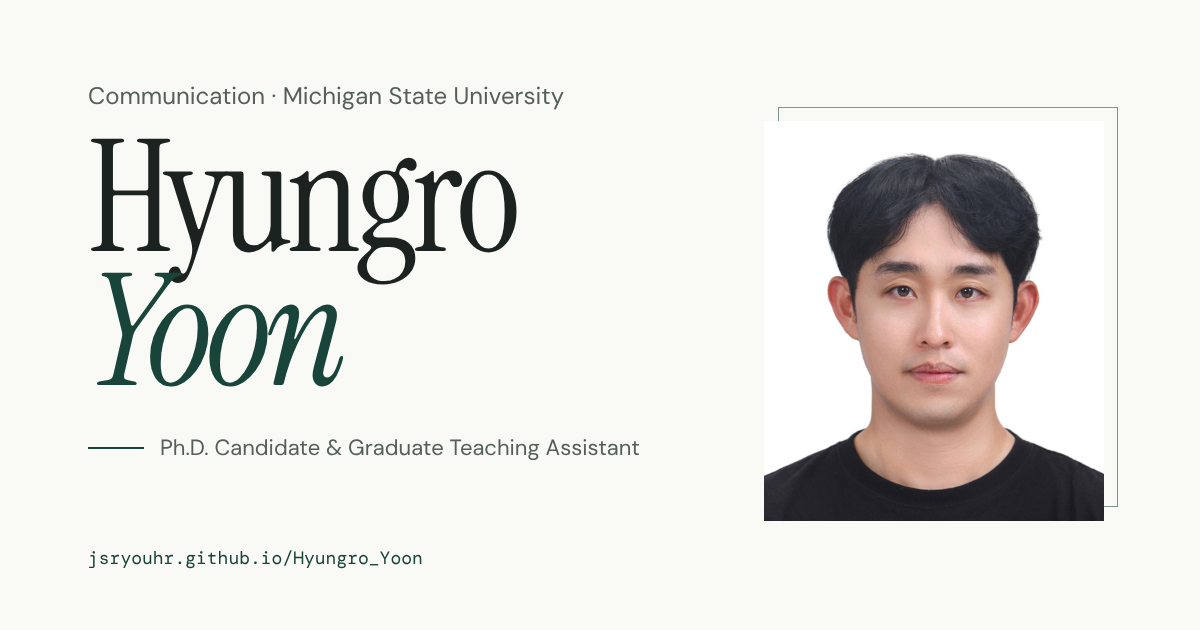
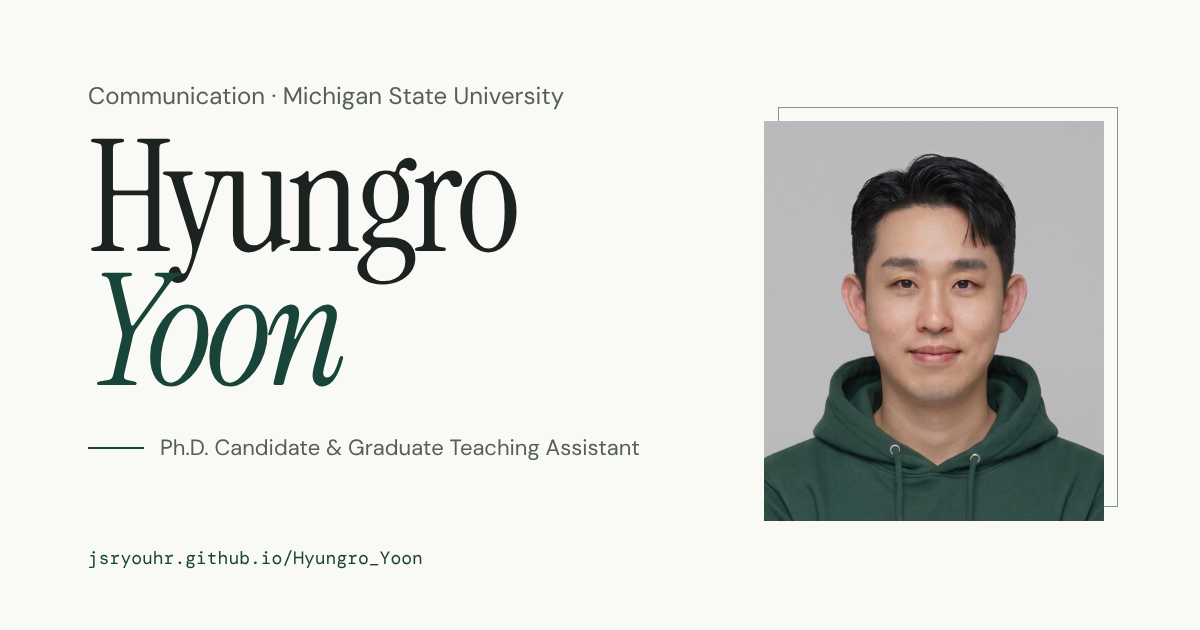
Replace profile photo and regenerate og-image with it
Claude-Session: https://claude.ai/code/session_01DkjhQkEKWE4T2VK9X79p76

Changed region(s): [[0.6167, 0.181, 0.925, 0.8444]]

diff --git a/artifacts/hyungro-yoon/src/App.tsx b/artifacts/hyungro-yoon/src/App.tsx
@@ -100,7 +100,7 @@ function App() {
           <div className="relative">
             <div className="absolute -right-3 -top-3 h-full w-full border border-primary/55"/>
             <div className="relative aspect-square overflow-hidden bg-muted">
-              <img src={portraitUrl} alt="Portrait of Hyungro Yoon" width="600" height="600" className="h-full w-full object-cover object-center grayscale-[12%]"/>
+              <img src={portraitUrl} alt="Portrait of Hyungro Yoon" width="900" height="900" className="h-full w-full object-cover object-center grayscale-[12%]"/>
             </div>
           </div>
           <div className="mt-3 border border-border bg-background px-4 py-3 md:absolute md:-bottom-8 md:-left-5 md:mt-0">
